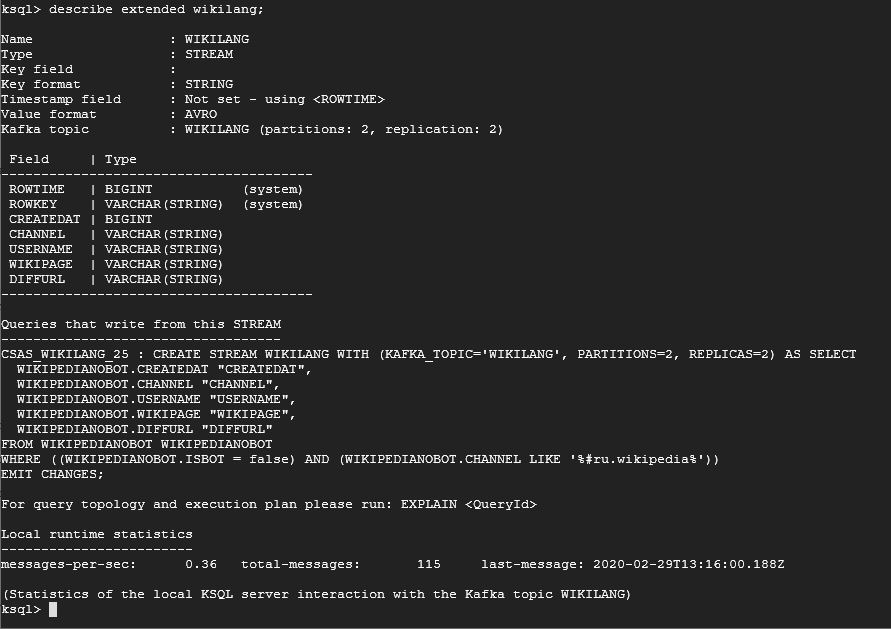
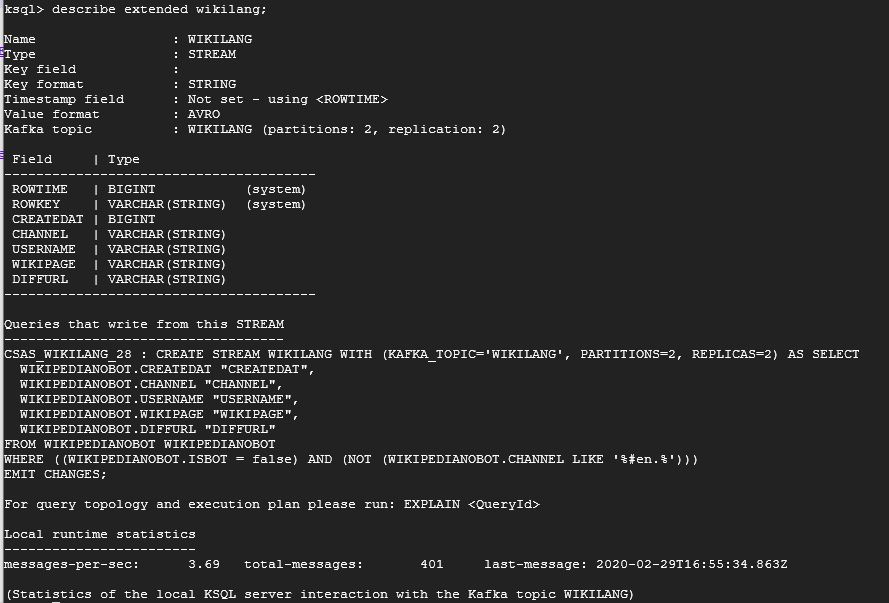
added answes in readme

Changed region(s): [[0.0, 0.0, 1.0, 1.0]]

diff --git a/HW11_Lesson20/readme.md b/HW11_Lesson20/readme.md
@@ -10,7 +10,7 @@ CREATE STREAM WIKILANG AS select
 	, diffurl 
 FROM WIKIPEDIANOBOT 
 where isbot = false
-and channel like '%#ru.wikipedia%'
+and channel not like '%#en.%'
 ;
 
 ```
@@ -27,8 +27,8 @@ describe extended wikipedianobot;
 ```
 ![DESCRIBE_WIKIPEDIABOT.JPG](https://github.com/adm-8/otus-de-andreevds-2019-11/blob/master/HW11_Lesson20/_images/DESCRIBE_WIKIPEDIABOT.JPG?raw=true)
 
-*Почему для wikipedianobot интерфейс показывает также consumer-* метрики?
-**Вероятнее всего потому что наш стрим основан на WIKIPEDIANOBOT и является для него потребителем (consumer)
+*Почему для wikipedianobot интерфейс показывает также consumer- метрики?*
+**Вероятнее всего потому что наш стрим основан на WIKIPEDIANOBOT и является для него потребителем (consumer)**
 
 #№ 4. Добавьте данные из стрима WIKILANG в ElasticSearch
 * Используя полученные знания и документацию ответьте на вопросы:  
@@ -39,14 +39,14 @@ describe extended wikipedianobot;
 
 ## 5. Создайте отчет "Топ10 национальных разделов" на базе индекса wikilang
 
-* 5.1 Что вы увидели в отчете?*
+*5.1 Что вы увидели в отчете?
 ** кол-во записей с группировкой по CHANNEL, что-то вроде:
 ```
 select CHANNEL, count(*) from wikilang group by CHANNEL
 ```
 
 
-* 5.2 Приложите тело запроса к заданию:
+*5.2 Приложите тело запроса к заданию:
 ```
 {
   "size": 0,
